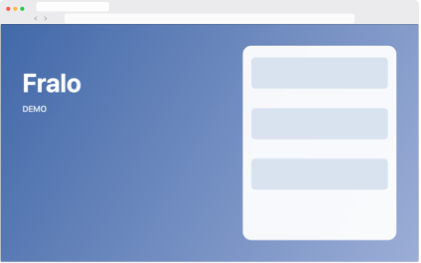
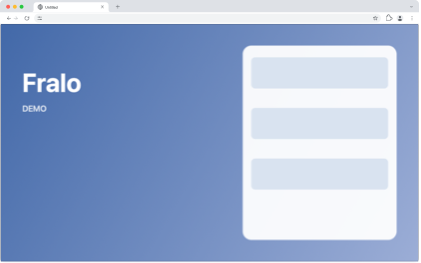
Replace placeholder Chrome shell with macOS browser controls

diff --git a/Sources/FraloCore/ChromeShellArtwork.swift b/Sources/FraloCore/ChromeShellArtwork.swift
@@ -1,0 +1,109 @@
+import CoreGraphics
+import CoreText
+
+/// Neutral macOS Chrome artwork. All coordinates use the shell's 1500-point width.
+/// No screenshot analysis or user browsing information enters the browser controls.
+enum ChromeShellArtwork {
+    static func draw(in context: CGContext, width: CGFloat) {
+        let ink = color(0x5f6368), toolbar = color(0xffffff)
+        context.saveGState(); defer { context.restoreGState() }
+        context.addPath(CGPath(roundedRect: CGRect(x: 0, y: 0, width: width, height: 102), cornerWidth: 16, cornerHeight: 16, transform: nil))
+        context.clip()
+        context.setFillColor(color(0xdee1e6)); context.fill(CGRect(x: 0, y: 0, width: width, height: 44))
+        context.setFillColor(toolbar); context.fill(CGRect(x: 0, y: 44, width: width, height: 42))
+
+        for (index, tint) in [0xff5f57, 0xfebc2e, 0x28c840].enumerated() {
+            ellipse(CGRect(x: 22 + CGFloat(index) * 24, y: 17, width: 14, height: 14), color: color(UInt32(tint)), in: context)
+        }
+
+        // An active Chrome tab joins the toolbar with concave lower shoulders.
+        let tab = CGMutablePath()
+        tab.move(to: CGPoint(x: 108, y: 44))
+        tab.addCurve(to: CGPoint(x: 120, y: 32), control1: CGPoint(x: 117, y: 44), control2: CGPoint(x: 120, y: 41))
+        tab.addLine(to: CGPoint(x: 120, y: 20))
+        tab.addQuadCurve(to: CGPoint(x: 132, y: 8), control: CGPoint(x: 120, y: 8))
+        tab.addLine(to: CGPoint(x: 376, y: 8))
+        tab.addQuadCurve(to: CGPoint(x: 388, y: 20), control: CGPoint(x: 388, y: 8))
+        tab.addLine(to: CGPoint(x: 388, y: 32))
+        tab.addCurve(to: CGPoint(x: 400, y: 44), control1: CGPoint(x: 388, y: 41), control2: CGPoint(x: 391, y: 44))
+        tab.closeSubpath(); context.addPath(tab); context.setFillColor(toolbar); context.fillPath()
+
+        context.setStrokeColor(ink); context.setLineWidth(1.6); context.setLineCap(.round); context.setLineJoin(.round)
+        // Generic page favicon and title avoid inventing a URL for the user's screenshot.
+        context.strokeEllipse(in: CGRect(x: 136, y: 17, width: 16, height: 16))
+        line([(144, 17), (144, 33)], in: context); line([(136, 25), (152, 25)], in: context)
+        context.strokeEllipse(in: CGRect(x: 140, y: 17, width: 8, height: 16))
+        text("Untitled", at: CGPoint(x: 162, y: 30), in: context)
+        line([(362, 20), (370, 28)], in: context); line([(370, 20), (362, 28)], in: context)
+        line([(415, 24), (427, 24)], in: context); line([(421, 18), (421, 30)], in: context)
+        line([(width - 31, 22), (width - 27, 26), (width - 23, 22)], in: context)
+
+        // Navigation uses full arrows; the forward action is disabled in this neutral window.
+        arrow(at: 27, forward: false, in: context)
+        context.setStrokeColor(color(0xb6b9bd)); arrow(at: 61, forward: true, in: context)
+        context.setStrokeColor(ink)
+        let reload = CGMutablePath()
+        reload.addArc(center: CGPoint(x: 96, y: 65), radius: 7, startAngle: -.pi / 4, endAngle: .pi * 1.55, clockwise: false)
+        context.addPath(reload); context.strokePath()
+        line([(103, 58), (103, 63), (98, 63)], in: context)
+
+        let address = CGRect(x: 122, y: 49, width: width - 258, height: 32)
+        context.addPath(CGPath(roundedRect: address, cornerWidth: 16, cornerHeight: 16, transform: nil))
+        context.setFillColor(color(0xf1f3f4)); context.fillPath()
+        // Site controls and bookmark star inside the omnibox; address intentionally blank.
+        line([(135, 61), (149, 61)], in: context); line([(135, 69), (149, 69)], in: context)
+        ellipse(CGRect(x: 138, y: 59, width: 4, height: 4), color: ink, in: context)
+        ellipse(CGRect(x: 144, y: 67, width: 4, height: 4), color: ink, in: context)
+        let star = CGMutablePath(), center = CGPoint(x: address.maxX - 20, y: 65)
+        for index in 0..<10 {
+            let angle = -.pi / 2 + CGFloat(index) * .pi / 5, radius: CGFloat = index.isMultiple(of: 2) ? 8 : 3.8
+            let point = CGPoint(x: center.x + cos(angle) * radius, y: center.y + sin(angle) * radius)
+            if index == 0 { star.move(to: point) } else { star.addLine(to: point) }
+        }
+        star.closeSubpath(); context.addPath(star); context.strokePath()
+
+        // Extensions puzzle piece, profile silhouette, and Chrome's vertical More menu.
+        let x = width - 110
+        let puzzle = CGMutablePath()
+        puzzle.move(to: CGPoint(x: x - 7, y: 58)); puzzle.addLine(to: CGPoint(x: x - 2, y: 58))
+        puzzle.addCurve(to: CGPoint(x: x + 4, y: 58), control1: CGPoint(x: x - 4, y: 50), control2: CGPoint(x: x + 6, y: 50))
+        puzzle.addLine(to: CGPoint(x: x + 8, y: 58)); puzzle.addLine(to: CGPoint(x: x + 8, y: 63))
+        puzzle.addCurve(to: CGPoint(x: x + 8, y: 69), control1: CGPoint(x: x + 16, y: 61), control2: CGPoint(x: x + 16, y: 71))
+        puzzle.addLine(to: CGPoint(x: x + 8, y: 73)); puzzle.addLine(to: CGPoint(x: x - 7, y: 73))
+        puzzle.closeSubpath(); context.addPath(puzzle); context.strokePath()
+        ellipse(CGRect(x: width - 80, y: 53, width: 24, height: 24), color: color(0xe8eaed), in: context)
+        ellipse(CGRect(x: width - 72, y: 57, width: 8, height: 8), color: ink, in: context)
+        context.saveGState()
+        context.addEllipse(in: CGRect(x: width - 78, y: 55, width: 20, height: 20)); context.clip()
+        ellipse(CGRect(x: width - 76, y: 67, width: 16, height: 14), color: ink, in: context)
+        context.restoreGState()
+        for y: CGFloat in [59, 65, 71] { ellipse(CGRect(x: width - 26.5, y: y - 1.5, width: 3, height: 3), color: ink, in: context) }
+        context.setStrokeColor(color(0xdadce0)); context.setLineWidth(1)
+        line([(0, 85.5), (width, 85.5)], in: context)
+    }
+
+    private static func arrow(at x: CGFloat, forward: Bool, in context: CGContext) {
+        let direction: CGFloat = forward ? -1 : 1
+        line([(x + direction * 5, 59), (x - direction, 65), (x + direction * 5, 71)], in: context)
+        line([(x - direction, 65), (x + direction * 11, 65)], in: context)
+    }
+    private static func line(_ points: [(CGFloat, CGFloat)], in context: CGContext) {
+        guard let first = points.first else { return }
+        context.move(to: CGPoint(x: first.0, y: first.1))
+        for point in points.dropFirst() { context.addLine(to: CGPoint(x: point.0, y: point.1)) }
+        context.strokePath()
+    }
+    private static func ellipse(_ rect: CGRect, color: CGColor, in context: CGContext) {
+        context.setFillColor(color); context.fillEllipse(in: rect)
+    }
+    private static func color(_ hex: UInt32) -> CGColor {
+        CGColor(srgbRed: CGFloat((hex >> 16) & 255) / 255, green: CGFloat((hex >> 8) & 255) / 255, blue: CGFloat(hex & 255) / 255, alpha: 1)
+    }
+    private static func text(_ value: String, at origin: CGPoint, in context: CGContext) {
+        let font = CTFontCreateWithName("Helvetica" as CFString, 13, nil)
+        let string = CFAttributedStringCreate(nil, value as CFString, [kCTFontAttributeName: font, kCTForegroundColorAttributeName: color(0x3c4043)] as CFDictionary)!
+        context.saveGState(); context.translateBy(x: origin.x, y: origin.y); context.scaleBy(x: 1, y: -1)
+        context.textMatrix = .identity; context.textPosition = .zero
+        CTLineDraw(CTLineCreateWithAttributedString(string), context); context.restoreGState()
+    }
+}

diff --git a/Tests/FraloCoreTests/ChromeShellTests.swift b/Tests/FraloCoreTests/ChromeShellTests.swift
@@ -1,0 +1,41 @@
+import CoreGraphics
+import XCTest
+@testable import FraloCore
+
+final class ChromeShellTests: XCTestCase {
+    func testChromeHasTabAndToolbarControlsInPreviewAndExport() throws {
+        let source = try CompositionRenderer.bitmap(CGSize(width: 40, height: 40))
+        source.setFillColor(CGColor(gray: 1, alpha: 1))
+        source.fill(CGRect(x: 0, y: 0, width: 40, height: 40))
+        let input = ImageInput(data: try FrameRenderer.pngData(XCTUnwrap(source.makeImage())), name: "page.png")
+        for ratio in WindowRatio.allCases {
+            var settings = CompositionSettings(); settings.display = .browser
+            settings.browser = .chrome; settings.windowRatio = ratio; settings.transparentShadow = .none
+            for limit: Int? in [nil, 750] {
+                let render = try CompositionRenderer.render(input, settings: settings, maxDimension: limit)
+                let image = try ImageInput(data: CompositionRenderer.data(render.image, settings: settings), name: "export.png").decode()
+                let bitmap = try CompositionRenderer.bitmap(CGSize(width: image.width, height: image.height))
+                CompositionRenderer.draw(image, in: CGRect(x: 0, y: 0, width: image.width, height: image.height), context: bitmap)
+                let bytes = try XCTUnwrap(bitmap.data).assumingMemoryBound(to: UInt8.self)
+                let scale = CGFloat(image.width) / 1500
+                // Each region was blank in the old shell. Inspect visible ink, not implementation geometry.
+                for (name, rect) in [
+                    ("close tab", CGRect(x: 357, y: 15, width: 18, height: 18)),
+                    ("new tab", CGRect(x: 412, y: 15, width: 18, height: 18)),
+                    ("reload", CGRect(x: 86, y: 55, width: 20, height: 20)),
+                    ("profile", CGRect(x: 1420, y: 54, width: 24, height: 24)),
+                    ("menu", CGRect(x: 1468, y: 55, width: 14, height: 20))
+                ] {
+                    var ink = 0
+                    for y in Int(rect.minY * scale)..<Int(rect.maxY * scale) {
+                        for x in Int(rect.minX * scale)..<Int(rect.maxX * scale) {
+                            let offset = y * bitmap.bytesPerRow + x * 4
+                            if bytes[offset] < 180 && bytes[offset + 1] < 180 && bytes[offset + 2] < 180 && bytes[offset + 3] > 200 { ink += 1 }
+                        }
+                    }
+                    XCTAssertGreaterThan(ink, 2, "Missing Chrome \(name), \(ratio), preview \(String(describing: limit))")
+                }
+            }
+        }
+    }
+}

diff --git a/Sources/FraloCore/CompositionRenderer.swift b/Sources/FraloCore/CompositionRenderer.swift
@@ -149,13 +149,14 @@ public enum CompositionRenderer {
             context.setStrokeColor(CGColor(gray: 0.55, alpha: 1)); context.setLineWidth(3)
             context.addPath(CGPath(roundedRect: CGRect(origin: .zero, size: size).insetBy(dx: 3, dy: 3), cornerWidth: 60, cornerHeight: 60, transform: nil)); context.strokePath()
             context.setFillColor(CGColor(gray: 0.02, alpha: 1)); context.fillEllipse(in: CGRect(x: size.width / 2 - 5, y: 13, width: 10, height: 10))
+        } else if settings.browser == .chrome {
+            ChromeShellArtwork.draw(in: context, width: size.width)
         } else {
             for (i, color) in [ArtworkColor(1, 0.36, 0.33), ArtworkColor(1, 0.75, 0.24), ArtworkColor(0.18, 0.8, 0.3)].enumerated() {
                 context.setFillColor(color.cgColor); context.fillEllipse(in: CGRect(x: 22 + i * 25, y: 24, width: 15, height: 15))
             }
-            let barY: CGFloat = settings.browser == .chrome ? 48 : 14
+            let barY: CGFloat = 14
             fill(CGRect(x: 230, y: barY, width: size.width - 460, height: 36), radius: 9, color: CGColor(gray: 0.98, alpha: 1), context: context)
-            if settings.browser == .chrome { fill(CGRect(x: 130, y: 7, width: 260, height: 34), radius: 8, color: CGColor(gray: 0.99, alpha: 1), context: context) }
             context.setStrokeColor(CGColor(gray: 0.45, alpha: 1)); context.setLineWidth(2)
             for (index, x) in [CGFloat(125), CGFloat(166)].enumerated() {
                 let edge: CGFloat = index == 0 ? 6 : -6
